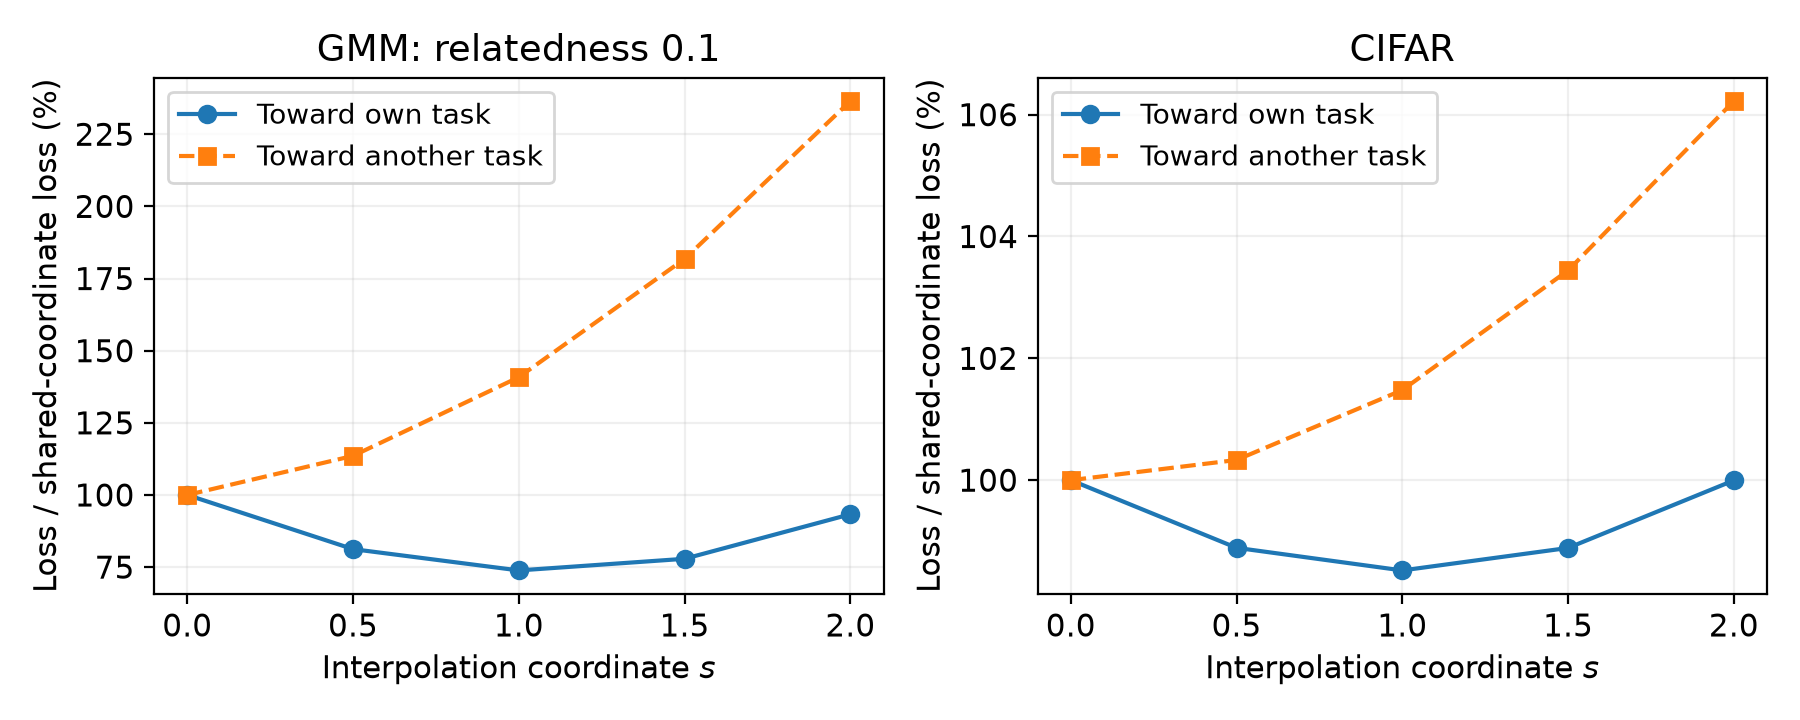
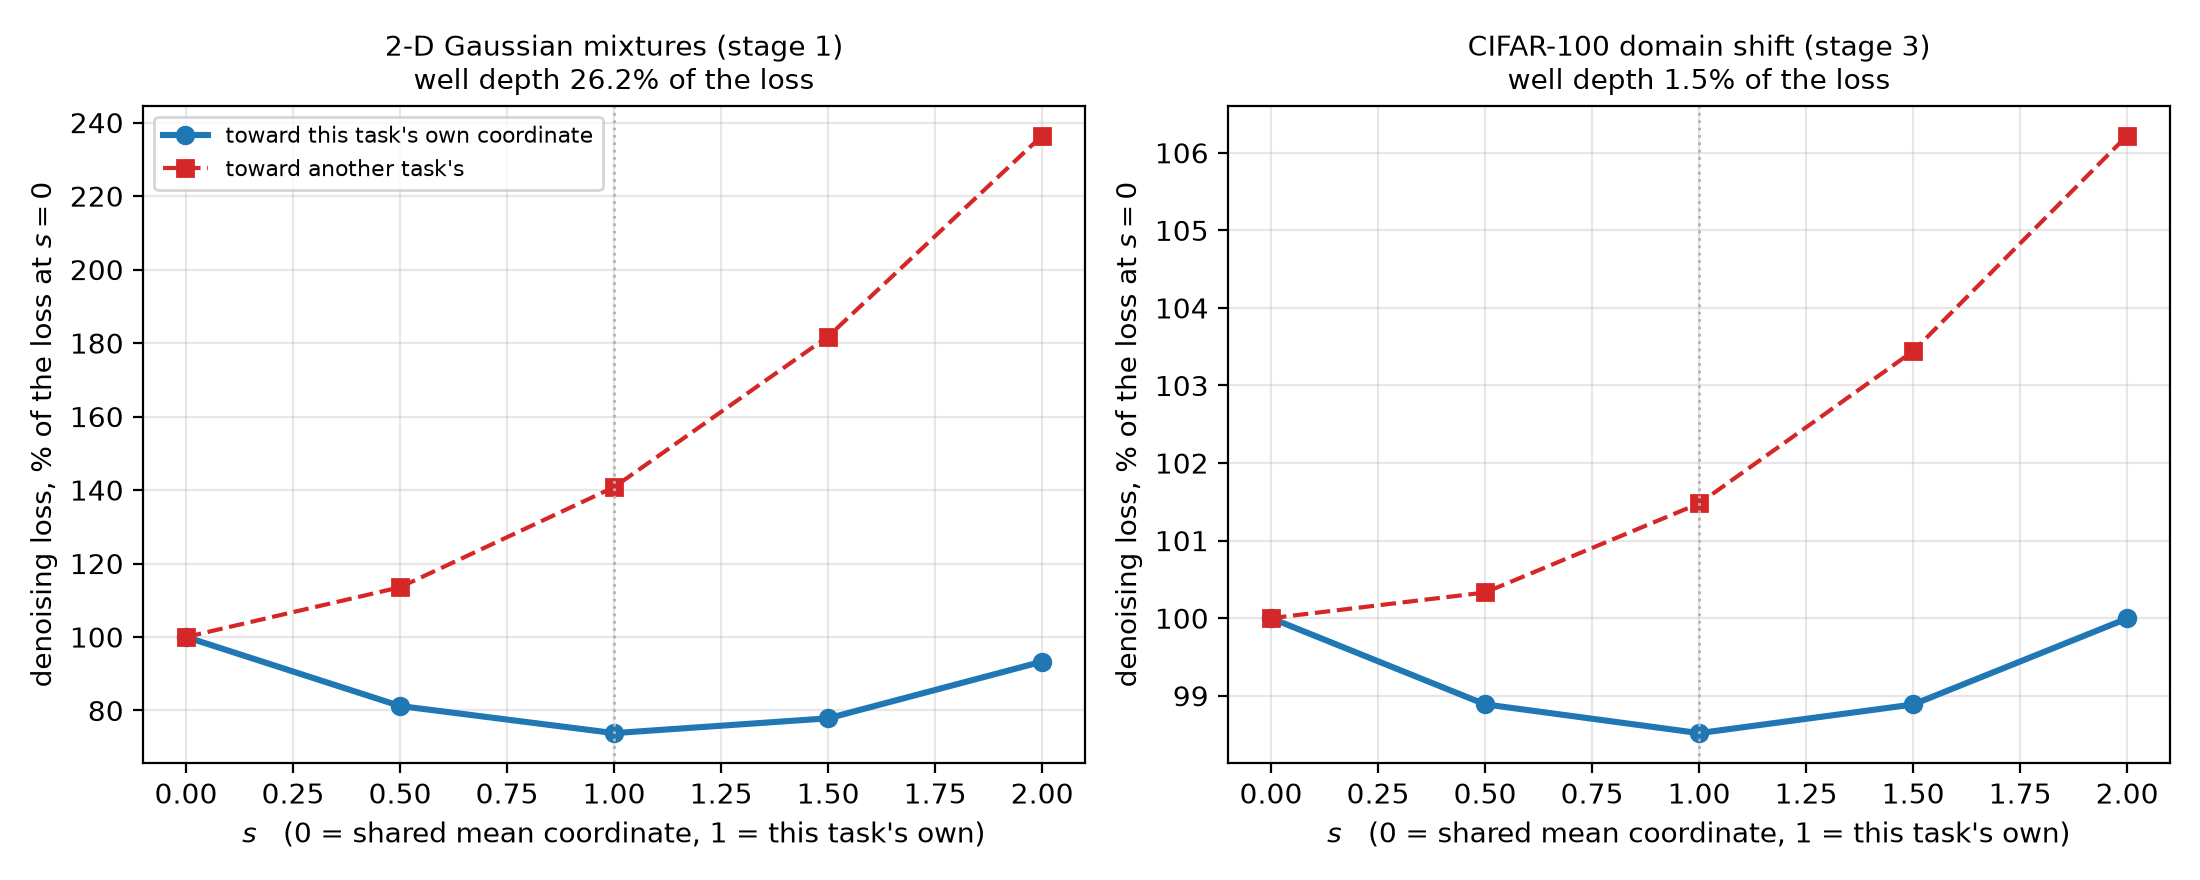
Match profile contrast to the reference layout with current well depths

diff --git a/doc/appendix.tex b/doc/appendix.tex
@@ -162,8 +162,8 @@ Figure~\ref{fig:coord-profile} has two different checkpoint sources: the GMM pan
 
 \begin{figure}[t]
 \centering
-\includegraphics[width=.82\linewidth]{figures/profile_contrast.png}
-\caption{\textbf{Task-coordinate interpolation.} The GMM and CIFAR panels use their respective model checkpoints. Losses are normalised by the shared-coordinate loss; own-task and wrong-task directions keep their diagnostic meanings. Their shapes do not replace the paired deployment-route comparisons.}
+\includegraphics[width=.98\linewidth]{figures/profile_contrast.png}
+\caption{\textbf{Task-coordinate interpolation.} The GMM and CIFAR panels use their respective model checkpoints. Losses are normalised by the shared-coordinate loss; well depth is the percentage drop from this loss to the minimum along the own-task direction. Own-task and wrong-task directions keep their diagnostic meanings. Their shapes do not replace the paired deployment-route comparisons.}
 \label{fig:coord-profile}
 \end{figure}
 
